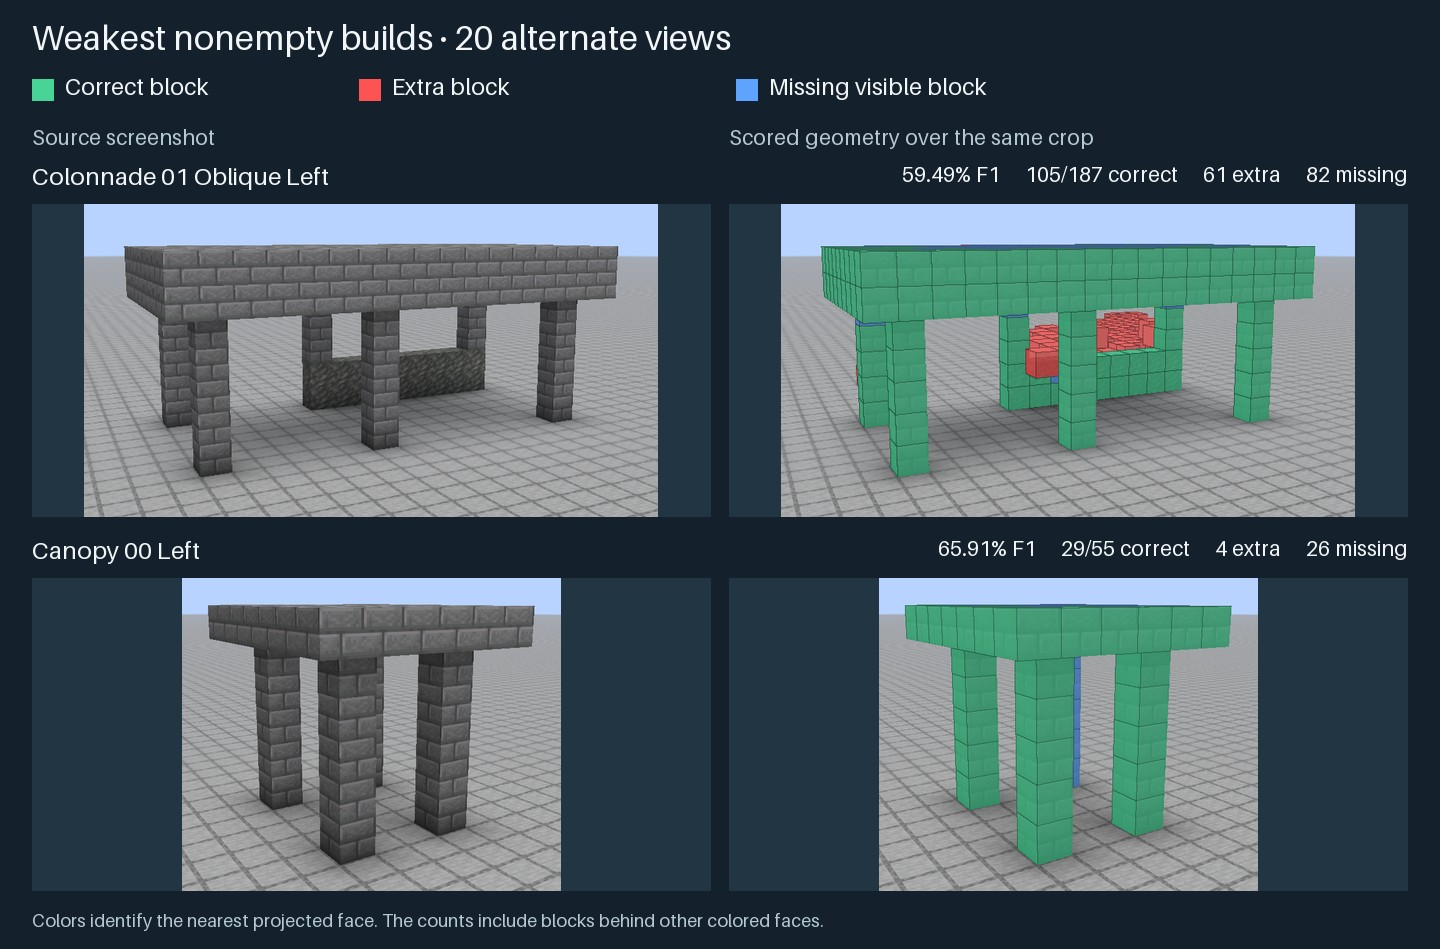
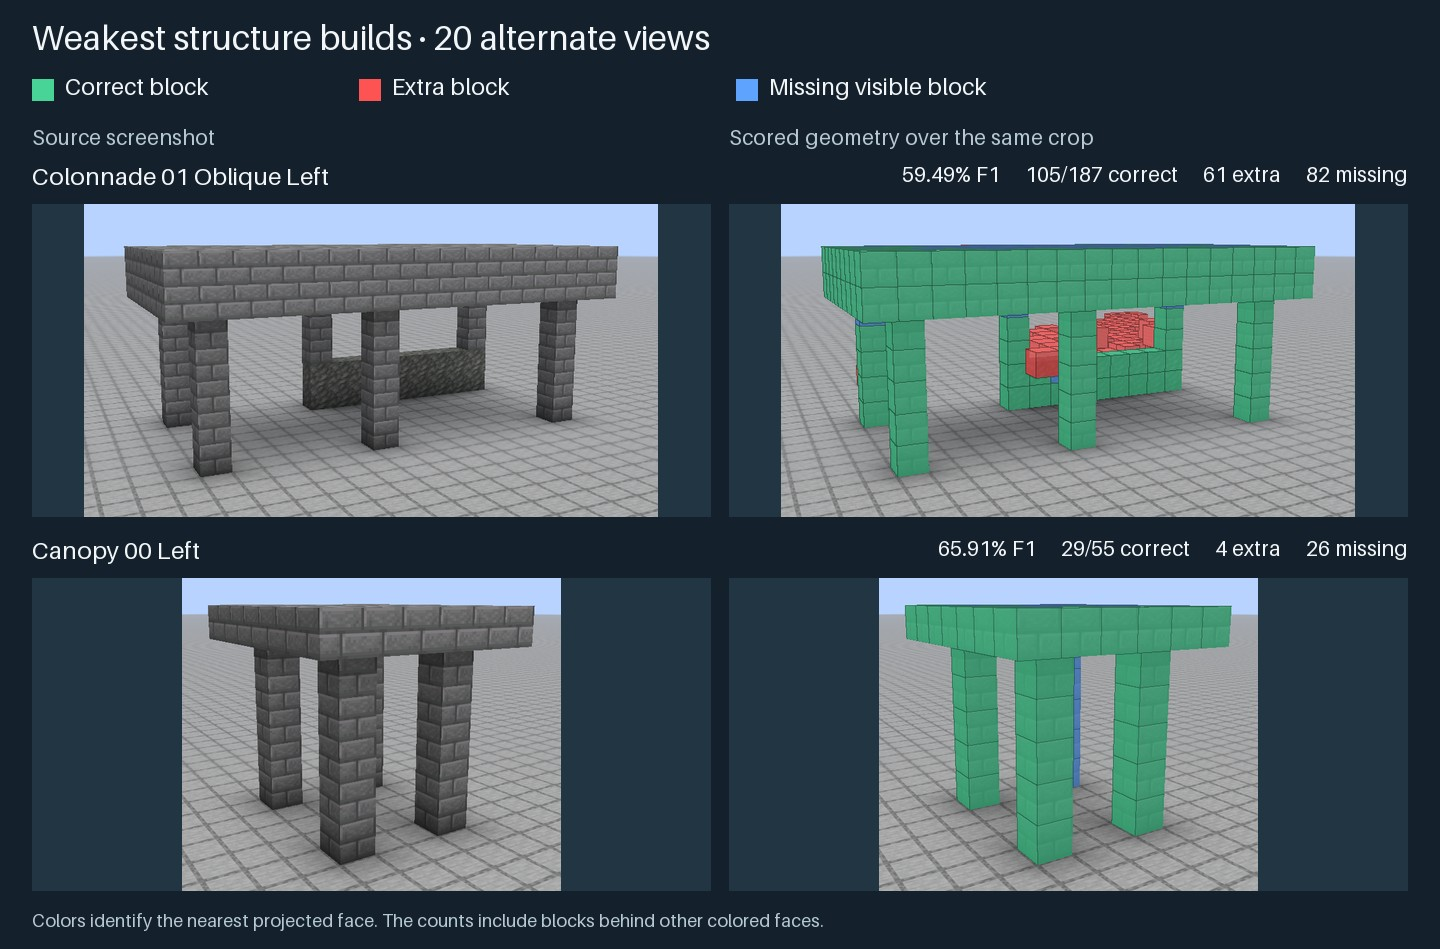
Evaluate whole-frame texture controls separately from structure views

Changed region(s): [[0.125, 0.0306, 0.5, 0.0611]]

diff --git a/benchmark/nearby_worst_views.py b/benchmark/nearby_worst_views.py
@@ -7,7 +7,7 @@ import numpy as np
 from PIL import Image, ImageDraw, ImageOps
 
 from benchmark import visible_depth_native as native, visible_depth_transfer as transfer
-from benchmark.nearby_thin_comparison import EVALUATION, EXTRA_INPUTS, decode, records
+from benchmark.nearby_thin_comparison import EVALUATION, EXTRA_INPUTS, TEXTURE_ONLY_RGB, decode, records
 from benchmark.relative_geometry_replay import references
 from benchmark.texture_camera_eval import DATA, STABLE, checked, frames, read, save
 from benchmark.texture_camera_sheet import font
@@ -99,12 +99,12 @@ def sheet(rows, headline, destination):
     canvas.save(destination,quality=90)
 
 
-def empty_sheet(rows,destination):
+def texture_sheet(rows,destination):
     canvas=Image.new('RGB',(1360,112+196*((len(rows)+1)//2)),BG)
     pen=ImageDraw.Draw(canvas)
-    pen.text((26,16),'Lowest-scoring views · camera abstentions',font=font(32),fill=INK)
+    pen.text((26,16),'Full-frame texture controls',font=font(32),fill=INK)
     distinct=len({r['rgb_sha256'] for r,_ in rows})
-    pen.text((26,68),f'{len(rows)} builds at 0% F1 · {distinct} distinct source images across the photographed floor settings',font=font(21),fill=MUTED)
+    pen.text((26,68),f'{len(rows)} complete screenshots · {distinct} distinct images across the photographed floor settings',font=font(21),fill=MUTED)
     for i,(entry,image) in enumerate(rows):
         x=26+(i%2)*664
         y=110+(i//2)*196
@@ -112,7 +112,7 @@ def empty_sheet(rows,destination):
         floor,_,parts=entry['id'].removeprefix('legacy-').split('-',2)
         pen.text((x+262,y+16),parts.replace('-close-front','').replace('-',' ').title(),font=font(23),fill=INK)
         pen.text((x+262,y+58),floor.replace('_',' ')+' floor',font=font(21),fill=MUTED)
-        pen.text((x+262,y+94),f"0 / {entry['target']} visible · 0 extra",font=font(21),fill=MUTED)
+        pen.text((x+262,y+94),f"{entry['placed']} blocks exported",font=font(21),fill=MUTED)
     canvas.save(destination,quality=90)
 
 
@@ -150,7 +150,7 @@ def footprint(name, truth, placed, destination):
 
 def build(args):
     args.out.mkdir(parents=True,exist_ok=True)
-    output, selected, empty = {}, {}, []
+    output, selected, controls, abstentions = {}, {}, [], []
     for name,splits,count in [('fixed',EVALUATION,3),('alternate',('extra',),2)]:
         indexed=[]
         for split in splits:
@@ -166,15 +166,18 @@ def build(args):
             m=row['relative_geometry']
             record=dict(id=key,split=split,f1=float(f1(row)),rgb_sha256=row['rgb_sha256'],
                         pack_sha256=row['pack_sha256'],**{k:m[k] for k in ('target','placed','correct','extras','missed')})
-            output[name].append(record)
-            if m['placed'] and len(cards)>=count:
+            if not m['placed']:
+                abstentions.append(key)
+            texture_only = name == 'fixed' and row['rgb_sha256'] in TEXTURE_ONLY_RGB
+            if not texture_only:
+                output[name].append(record)
+            if not texture_only and len(cards)>=count:
                 continue
             rgb,pose_path=image_paths(split,f)
             with Image.open(checked(rgb,f['files']['rgb.png'])) as src:
                 image=src.convert('RGB')
-            if not m['placed']:
-                assert not row['camera_supported'] and f1(row)==0
-                empty.append((record,image))
+            if texture_only:
+                controls.append((record,image))
                 continue
             pose=read(checked(pose_path,f['files']['camera.json']))
             truth,_,transform,hashes=references('old' if split=='extra' else split,f,fixture,DATA,
@@ -183,17 +186,17 @@ def build(args):
             dx,dy,dz=row['translation']
             placed={(x+dx,y+dy,z+dz) for x,y,z in cells}
             assert len(placed&truth)==m['correct'] and len(placed-truth)==m['extras'] and len(truth-placed)==m['missed']
-            if name=='fixed' and not cards:
+            if name=='fixed' and not cards and placed:
                 footprint(title(key),truth,placed,args.out/'worst-footprint.png')
             detail=f"{float(f1(row)):.2%} F1     {m['correct']}/{m['target']} correct     {m['extras']} extra     {m['missed']} missing"
             cards.append((title(key),detail,overlay(image,pose,truth,placed)))
-        selected[name]=[entry['id'] for entry in output[name] if entry['placed']][:count]
-        sheet(cards,f"Weakest nonempty builds · {len(indexed)} {name} views",args.out/(name+'.jpg'))
-    if empty:
-        empty.sort(key=lambda pair:(pair[0]['id'].split('-',2)[-1],pair[0]['id']))
-        empty_sheet(empty,args.out/'camera-abstentions.jpg')
+        selected[name]=[entry['id'] for entry in output[name][:count]]
+        sheet(cards,f"Weakest structure builds · {len(output[name])} {name} views",args.out/(name+'.jpg'))
+    if controls:
+        controls.sort(key=lambda pair:(pair[0]['id'].split('-',2)[-1],pair[0]['id']))
+        texture_sheet(controls,args.out/'camera-abstentions.jpg')
     save(args.out/'ranking.json',dict(sort='ascending exact relative F1, then frame ID',selected=selected,
-         abstentions=[r['id'] for r,_ in empty],rankings=output))
+         abstentions=abstentions,texture_only_controls=[r for r,_ in controls],rankings=output))
 
 
 if __name__=='__main__':

diff --git a/benchmark/nearby_thin_comparison.py b/benchmark/nearby_thin_comparison.py
@@ -22,6 +22,14 @@ MAIN_ARCHIVE = REVIEWS / 'visible-recovery-01/scores.zip'
 EXTRA_REVIEW = REVIEWS / 'visible-recovery-extra-views-01'
 EXTRA_INPUTS = STABLE.parent / 'minecraft-image-reconstruction-worktrees/visible-recovery-extra-views/runs/extra-views'
 EVALUATION = ('validation', 'test', 'regression', 'native', 'old', 'fresh')
+# The original Wing and Courtyard close-ups, each captured on two floor variants.
+# The texture fills the supplied RGB frame. This is a fixture annotation, never a predictor input.
+TEXTURE_ONLY_RGB = {
[4 lines of base64/hex data omitted]
+}
 
 
 def records(folder, ids):
@@ -118,6 +126,9 @@ def compare(args):
     groups = {s:[r for r in results if r['split']==s] for s in args.splits}
     if set(EVALUATION)<=set(args.splits):
         groups['evaluation'] = [r for r in results if r['split'] in EVALUATION]
+        controls = [r for r in groups['evaluation'] if r['files']['rgb.png'] in TEXTURE_ONLY_RGB]
+        assert len(controls) == 8 and {r['files']['rgb.png'] for r in controls} == TEXTURE_ONLY_RGB
+        groups['structure_views'] = [r for r in groups['evaluation'] if r['files']['rgb.png'] not in TEXTURE_ONLY_RGB]
     if 'evaluation' in groups and 'extra' in groups:
         assert not {r['inputs']['rgb_sha256'] for r in groups['evaluation']} & {r['inputs']['rgb_sha256'] for r in groups['extra']}
     report = dict(control='cebbffa',primary='pooled visible voxel F1 after one whole-build translation',
@@ -126,10 +137,18 @@ def compare(args):
                   canopies={s:canopy_report([r['canopy'] for r in rows if 'canopy' in r])
                             for s,rows in groups.items() if any('canopy' in r for r in rows)})
     args.out.mkdir(parents=True,exist_ok=True)
+    if 'structure_views' in groups:
+        report['primary_group'] = 'structure_views'
+        report['texture_only_controls'] = {
+            'frames': len(controls),
+            'empty_exports': sum(r['relative_geometry']['placed'] == 0 for r in controls),
+            'placed_blocks': sum(r['relative_geometry']['placed'] for r in controls),
+            'ids': [r['id'] for r in controls],
+        }
     save(args.out/'cases.json',results)
     report['cases_sha256']=digest(args.out/'cases.json')
     save(args.out/'summary.json',report)
-    for group in ('train','evaluation','extra'):
+    for group in ('train','structure_views','evaluation','extra'):
         if group in groups:
             m=report['groups'][group]
             print(group, len(groups[group]), m['correct'], m['extras'], f"{m['f1']:.4%}")

diff --git a/README.md b/README.md
@@ -8,7 +8,7 @@ Download the versioned [Visible Builds dataset](training/DATASET.md) for per-fra
 
 A build can be placed anywhere in the world. We score its visible blocks after shifting the whole build together. This gives full credit for a translated copy while preserving the roof height, pillar spacing and offsets between parts. [Relative geometry results and one-block control](benchmark/reviews/relative-build-01/README.md)
 
-After estimating the camera, the placer compares nearby surface depths and face directions, then tests thin visible tops and undersides against the vanilla texture atlas. Across 112 fixed screenshots the default recovers **20,203 of 24,086 visible positions** with 1,894 extras, for **87.49% relative geometry F1**. Twenty alternate views score 86.69%. Four views of two newly built structures score 82.79%. All 18 measured canopy openings have the correct width. [Production comparison and worst-performing photos](benchmark/reviews/nearby-thin-01/README.md)
+After estimating the camera, the placer compares nearby surface depths and face directions, then tests thin visible tops and undersides against the vanilla texture atlas. On the 104 fixed structure views, the default scores **88.22% relative geometry F1**. All eight additional full-frame texture controls produced empty builds. Across the historical 112 screenshots the default recovers **20,203 of 24,086 visible positions** with 1,894 extras, for **87.49% relative geometry F1**. Twenty alternate views score 86.69%. Four views of two newly built structures score 82.79%. All 18 measured canopy openings have the correct width. [Production comparison and worst-performing photos](benchmark/reviews/nearby-thin-01/README.md)
 
 Reconstruct only the parts of a build visible in the supplied image or images. Hidden backs, interiors and occluded regions remain unknown and are omitted from the reconstruction. This scope applies to the current pipeline and the [planned learned approach](training/README.md). [Product intent](PRODUCT_INTENT.md)
 

diff --git a/MODEL_CHANGELOG.md b/MODEL_CHANGELOG.md
@@ -4,6 +4,8 @@ These entries cover model inputs, rules around model outputs, and evaluation cha
 
 ### November 26, 2026
 
+- **Evaluation scope.** The eight Wing and Courtyard close-ups are full-frame textures. The ordinary build abstained on all eight. On the 104 fixed structure views, the current default scores 88.22% versus 86.44% for its predecessor. The original 112-view result is 87.49% versus 85.71%. Use the texture-only frames to test local tile spacing and alignment. [Scope and source images](benchmark/reviews/nearby-thin-01/worst/README.md)
+
 - **Shipped nearby depth and face-direction decisions and thin-face atlas verification.** Fixed-suite F1 rose from 85.71% to 87.49%, and roof cells positioned correctly against both posts rose from 194 to 294 of 459. Four views of two new structures gained 20 correct blocks and 18 extras. The high-right switchback declined. Excessive depth remains a prominent failure on canopies. [Paired evaluations and worst screenshots](benchmark/reviews/nearby-thin-01/README.md)
 
 - **Geometry placement.** Checking adjacent surfaces for depth conflicts, matching visible texture on neighboring faces and measuring horizontal faces on a two-pixel grid raised relative F1 from 83.95% to 85.71% on 112 screenshots. The public placer recovered 705 net visible positions with 24 net extras. Roof positions anchored to both posts rose from 170 to 194 of 459. The close-up atlas counter remains experimental because a frame-filling texture can leave the face orientation unresolved. [Combined results and rollback](benchmark/reviews/visible-recovery-01/README.md) · [Remaining errors and implications for training](benchmark/reviews/post-placement-budget-01/README.md)

diff --git a/PRODUCT_INTENT.md b/PRODUCT_INTENT.md
@@ -8,6 +8,8 @@ Recover the visible parts of a Minecraft build from the supplied image or images
 
 Reconstruct only cells supported by visible block-face evidence in the supplied input. A partly visible face can support its block when the grid and placement are established. Minecraft places whole blocks, so placing a full cube for its observed face is expected; that does not authorize adding neighboring cells whose faces were never observed.
 
+A full input frame showing only a surface texture, with no usable view of how parts of a build relate, is a texture and grid example. Leave its structure placement unresolved. For a surface extracted from a larger building screenshot, use the surrounding view for orientation and placement. On the extracted surface, compare the perspective-corrected texture against the complete atlas tile to measure block spacing and alignment. An individual brick or mortar course can occupy only part of one Minecraft block.
+
 ## Unseen areas remain unknown
 
 Do not predict or generate hidden backs, interiors, thickness behind an observed face, occluded continuations, off-image regions or other unobserved geometry. Do not close shells, extrude a facade to an assumed depth, mirror a visible facade onto an unseen side, inpaint missing structure or add hidden supports. Shape or symmetry priors may help interpret visible evidence, but they must not create unobserved cells.

diff --git a/benchmark/reviews/nearby-thin-01/README.md b/benchmark/reviews/nearby-thin-01/README.md
@@ -22,6 +22,8 @@ The nearby model compares small depth changes and competing face directions on a
 
 ## Worst-performing screenshots
 
+The structure-only comparison scores the same frozen predictions on 104 fixed building views. The previous default scores 86.44% and the shipped default scores 88.22%. Canopy 06 left is the weakest structure. The eight texture-only controls were defined by inspecting the full source images. [Recomputed structure scope](structure-scope.json)
+
 Eight fixed close-ups tie at 0% because the camera could not recover scale. They contain four distinct RGB images. The lowest nonempty fixed build, Canopy 06 left, recovered 29 of 84 visible cells and placed 92 extras (28.29%). Its 62-block depth span is visible in the [top-down comparison](worst/worst-footprint.png). The reference spans ten blocks. The lowest alternate view, Colonnade 01 oblique-left, recovered 105 of 187 with 61 extras (59.49%). The weakest new view, the high-right switchback, missed part of the brick pier and placed extra blocks at the lookout height. [All eight abstentions](worst/camera-abstentions.jpg) · [Three lowest nonempty fixed builds](worst/fixed.jpg) · [Two lowest alternate views](worst/alternate.jpg) · [Switchback detail](../blind-shapes-01/switchback-high-errors.png) · [Full fixed and alternate rankings](worst/ranking.json)
 
 ## Next test toward 95%

diff --git a/training/README.md b/training/README.md
@@ -14,6 +14,8 @@ Do not train this project to complete backs, interiors, occluded continuations, 
 
 ## Training data
 
+Use texture-filled whole frames for material and local block-grid targets. Score structure placement on views that show a build. A crop extracted from such a view can supply texture scale and tile alignment while its parent image supplies spatial context.
+
 Source worlds can contain complete structures. For each example, capture the image together with aligned camera parameters, visible depth, normals, surface IDs, projected block corners and visible block-state labels. Use full world data to determine visibility and generate correct labels; restrict reconstruction targets to evidence visible in that example's supplied input view(s).
 
 Represent visible occupied cells, observed free space and unknown space separately. Unknown cells must not become air labels or hidden occupancy targets. Different camera views may form separate single-image examples, but each target must use only its own visibility. A multi-image example can use the union of its explicitly supplied views. Keep all views, palettes and close structural variants of a building in one split. Held-out world state and camera truth belong to the scorer, not ordinary prediction inputs.

diff --git a/AGENTS.md b/AGENTS.md
@@ -1,5 +1,7 @@
 # Single-image exterior experiments
 
+Report structure geometry on the fixed 104 building views, with the historical 112-view score alongside it when comparing prior work. The eight whole-frame texture controls check abstention, material and local grid estimates. Identify these cases from the frozen input annotations. Count a camera failure on a structure view as a geometry miss. Follow the same distinction between a full texture-only image and a surface cropped from a building when choosing training targets.
+
 Rank placement methods by visible-block F1 after one whole-build integer XYZ translation. Report the camera-registered score as a diagnostic. Preserve the spacing between all visible parts, including disconnected pieces, under that same shift. For canopies also measure roof positions relative to both pillars and the opening width. [Relative placement evaluation](benchmark/reviews/relative-build-01/README.md)
 
 When an experiment changes reconstruction behavior or reveals a failure worth testing in training, add a dated bullet to [the reconstruction adjustment log](MODEL_CHANGELOG.md). Record the decision, measured effect and example, and link the replay or evidence. Distinguish model changes from rules and evaluation changes.

diff --git a/benchmark/reviews/nearby-thin-01/worst/README.md b/benchmark/reviews/nearby-thin-01/worst/README.md
@@ -1,5 +1,7 @@
 # Lowest-scoring reconstruction images
 
+The close-up thumbnails show the entire 1440 × 900 source photographs, scaled to fit. They are texture-only controls. On the 104 fixed structure views, Canopy 06 left is the lowest-scoring image and pooled F1 is 88.22%. The table below also identifies the weakest alternate views. [Structure and full-suite scores](../structure-scope.json)
+
 Eight of the 112 fixed evaluation rows tied for last. All eight depict a close-up wall and returned an empty pack for 48 visible blocks, or 0% F1. They contain four distinct RGB images because both photographed floor variants are fully outside the frame. All 20 alternate views produced nonempty geometry. [All eight source views](camera-abstentions.jpg)
 
 | Evaluation and view | Relative F1 | Correct / visible | Missed | Extra |
